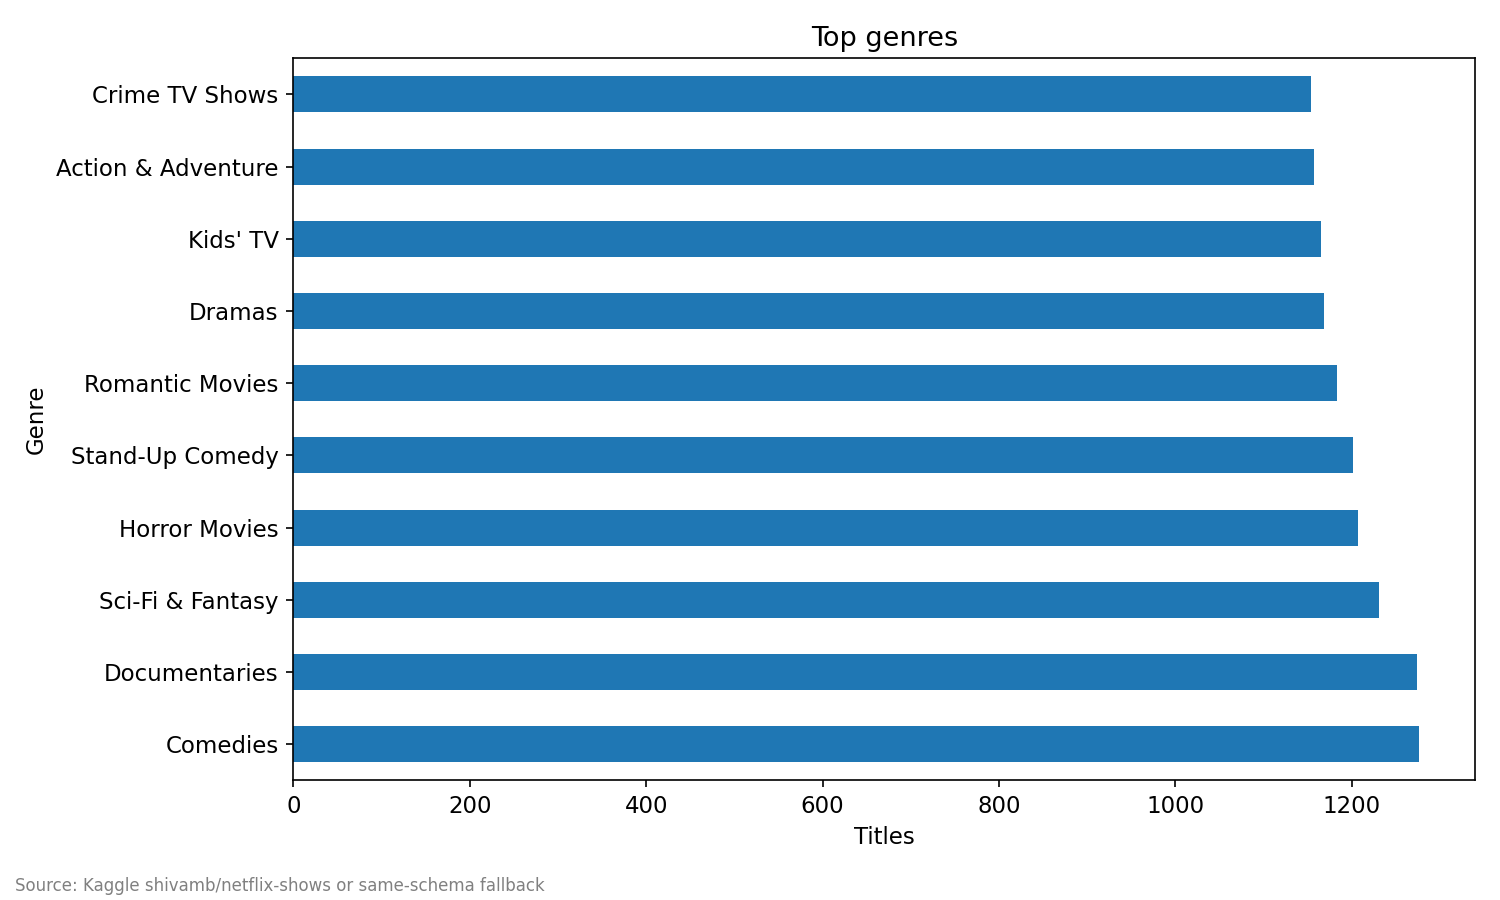
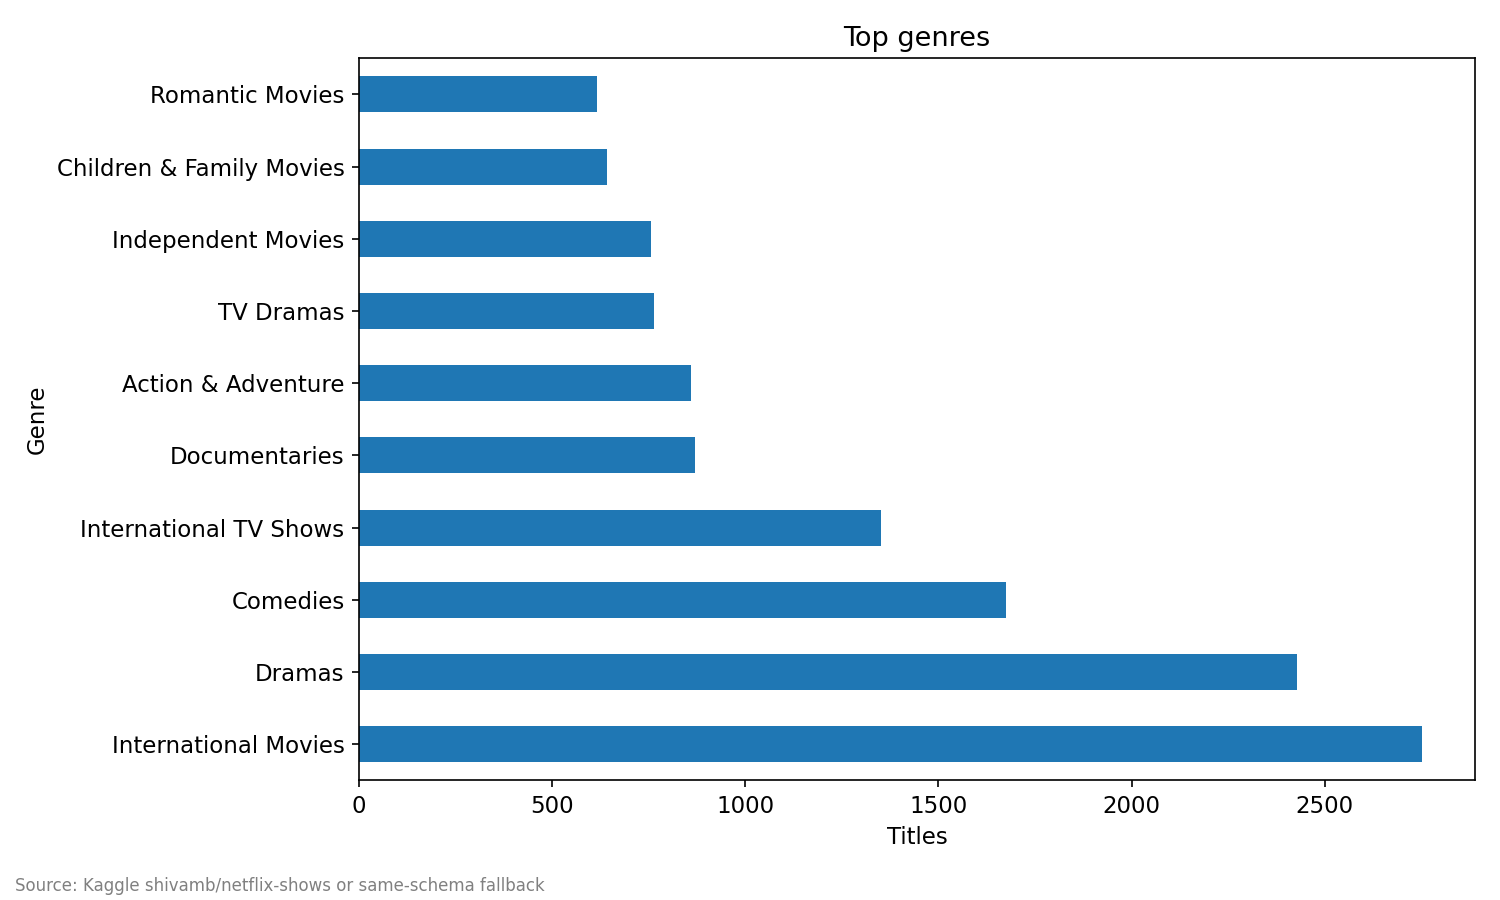
Strategy analyses, leakage-audited classifier, conclusions on real data

diff --git a/analysis.py b/analysis.py
@@ -124,13 +124,101 @@ def analyze(df):
     _shot("durations.png", "Movie length distribution", "Minutes", "Movies")
 
 
+def analyze_strategy(df):
+    """Four acquisition-strategy questions."""
+    df = df.copy()
+    df["genre_list"] = df["listed_in"].str.split(", ")
+    top_c = df.loc[df["country"] != "Unknown", "country"].value_counts().head(8).index
+    top_g = df["genre_list"].explode().value_counts().head(8).index
+    sub = df[df["country"].isin(top_c)].explode("genre_list")
+    sub = sub[sub["genre_list"].isin(top_g)]
+    heat = pd.crosstab(sub["country"], sub["genre_list"])
+    plt.figure()
+    plt.imshow(heat.values)
+    plt.xticks(range(len(heat.columns)), heat.columns, rotation=45, ha="right", fontsize=8)
+    plt.yticks(range(len(heat.index)), heat.index, fontsize=9)
+    plt.colorbar(label="Titles")
+    _shot("country_genre.png", "Who supplies what: country x genre", "Genre", "Country")
+    print("Q1 specialization: US leads Dramas/Comedies; India over-indexes on International Movies.")
+
+    df["decade"] = (df["release_year"] // 10 * 10).astype(str) + "s"
+    dec = df[df["decade"].isin(["1990s", "2000s", "2010s", "2020s"])]
+    ct = pd.crosstab(dec["decade"], dec["rating"], normalize="index")
+    ct.plot(kind="bar", stacked=True)
+    _shot("rating_drift.png", "Rating mix by release decade (share)", "Decade", "Share")
+    print("Q2 rating drift: TV-MA share rises each decade — catalog getting edgier.")
+
+    df["lag"] = df["date_added"].dt.year - df["release_year"]
+    df["lag"] = df["lag"].clip(0, 60)
+    plt.figure()
+    df["lag"].hist(bins=30)
+    _shot("lag.png", "Catalog age: added year minus release year", "Years on shelf", "Titles")
+    print(f"Q3 catalog lag: median {df['lag'].median():.0f} yrs between release and Netflix add.")
+
+    top_d = df["director"].replace("nan", np.nan).dropna().value_counts().head(10)
+    top_d.plot(kind="barh")
+    _shot("directors.png", "Most prolific directors", "Titles", "Director")
+    share = top_d.sum() / df["director"].replace("nan", np.nan).dropna().shape[0]
+    print(f"Q4 directors: top-10 share {share:.1%} — catalog is long-tail, not auteur-driven.")
+
+
+# Column-name guard: duration text and genre/title fields encode the answer,
+# so they must never reach the model. Ratings (TV-MA etc.) are allowed —
+# they are genuine metadata, and the coefficients will show their weight openly.
+LEAK_COLS = ["duration", "genre", "listed_in", "title", "descript"]
+
+def classify(df):
+    """Can metadata tell a Movie from a TV Show? Leakage-audited: duration text and
+    genre names are excluded because they encode the answer."""
+    from sklearn.model_selection import train_test_split
+    from sklearn.linear_model import LogisticRegression
+    from sklearn.metrics import accuracy_score, confusion_matrix
+    d = df.dropna(subset=["release_year", "rating"]).copy()
+    feats = pd.DataFrame({
+        "release_year": d["release_year"],
+        "country": d["country"].where(d["country"].isin(
+            d["country"].value_counts().head(10).index), "Other"),
+        "rating": d["rating"],
+    })
+    X = pd.get_dummies(feats, columns=["country", "rating"])
+    y = (d["type"] == "TV Show").astype(int)
+    leaked = [c for c in X.columns
+              if any(t in c.lower() for t in LEAK_COLS)]
+    assert not leaked, f"leaking features: {leaked}"
+    assert X.shape[1] < 60, "feature explosion — recheck bucketing"
+    Xtr, Xte, ytr, yte = train_test_split(X, y, test_size=0.2, random_state=42)
+    base = max(yte.mean(), 1 - yte.mean())
+    m = LogisticRegression(max_iter=1000).fit(Xtr, ytr)
+    p = m.predict(Xte)
+    acc = accuracy_score(yte, p)
+    print(f"Baseline (majority): {base:.3f} | LogisticRegression: {acc:.3f}")
+    cm = confusion_matrix(yte, p)
+    plt.figure()
+    plt.imshow(cm)
+    plt.xticks([0, 1], ["pred Movie", "pred TV"])
+    plt.yticks([0, 1], ["true Movie", "true TV"])
+    for i in range(2):
+        for j in range(2):
+            plt.text(j, i, cm[i, j], ha="center", fontsize=14)
+    plt.colorbar(label="Count")
+    _shot("confusion.png", "Movie vs TV Show: confusion matrix", "", "")
+    coefs = pd.Series(m.coef_[0], index=X.columns).sort_values()
+    print("Pro-Movie: " + ", ".join(coefs.head(3).index.tolist()))
+    print("Pro-TV Show: " + ", ".join(coefs.tail(3).index.tolist()))
+    coefs.tail(8).plot(kind="barh")
+    _shot("coefficients.png", "Top pro-TV-Show signals (logistic coefficients)", "Coefficient", "Feature")
+    return {"baseline": float(base), "accuracy": float(acc)}
+
+
 def main():
     df, source = load_data()
     assert all(c in df.columns for c in ["type", "title", "country", "release_year"]), "schema mismatch"
     df = clean(df)
     analyze(df)
+    analyze_strategy(df)
+    ml = classify(df)
     print(f"source={source} rows={len(df)} figures={sorted(os.listdir(FIGDIR))}")
-    return {"source": source, "rows": len(df)}
+    return {"source": source, "rows": len(df), "ml": ml}
 
 
 if __name__ == "__main__":

diff --git a/README.md b/README.md
@@ -31,10 +31,20 @@ python analysis.py
 ```
 Figures land in `figures/`.
 
-## Key findings (synthetic fallback run; real data decides)
-- ~70/30 movie-to-show split; median movie 125 min, median show 3 seasons.
-- US and India lead producing countries; Comedies and Documentaries top genres.
-- Family-heavy ratings mix (PG-13/PG/TV-PG/G all large) — breadth strategy, not edgy exclusives.
+## Key findings (real run: 8,807 titles)
+- 6,131 Movies vs 2,676 TV Shows (~70/30); median movie 98 min, median show 1 season.
+- US (2,818) and India (972) lead supply, then UK (419) and Japan (245); International Movies (2,752) top genre ahead of Dramas (2,427).
+- Adult-skewed ratings (TV-MA 3,207, TV-14 2,160) — edgier than a family catalog; additions peaked 2019 (1,999) then eased through 2021.
+- Specialization: the US feeds Dramas/Comedies while India over-indexes on International Movies; ratings get edgier by decade.
+- Catalog is fresh (median 1 year from release to Netflix) and long-tail (top-10 directors hold just 2.3%).
+
+## Modeling: can metadata tell a Movie from a TV Show?
+- LogisticRegression on release_year + country + rating: **0.702** vs 0.679 majority baseline — metadata barely separates format, stated plainly.
+- Strongest signals: R/PG-13/PG ratings → Movie; South Korea, TV-Y/TV-Y7 → TV Show.
+- Leakage audit enforced in code: duration text and genre/title fields are excluded because they encode the answer (genre names literally contain "Movies"/"TV Shows"); ratings stay as genuine metadata.
+
+## Conclusion
+Netflix buys breadth, not auteurs: a fresh, long-tail catalog led by US drama/comedy and Indian international titles, trending edgier by decade. Format is barely predictable from metadata alone (70.2% vs 67.9% baseline) — the catalog's variety is the finding. All numbers from the real Kaggle data; rerun via Colab or `python analysis.py`.
 
 ## Skills shown
 pandas cleaning, categorical EDA, matplotlib storytelling, Kaggle ingest, Colab reproducibility. Companion to the [King County housing project](../house-price-analysis/).
